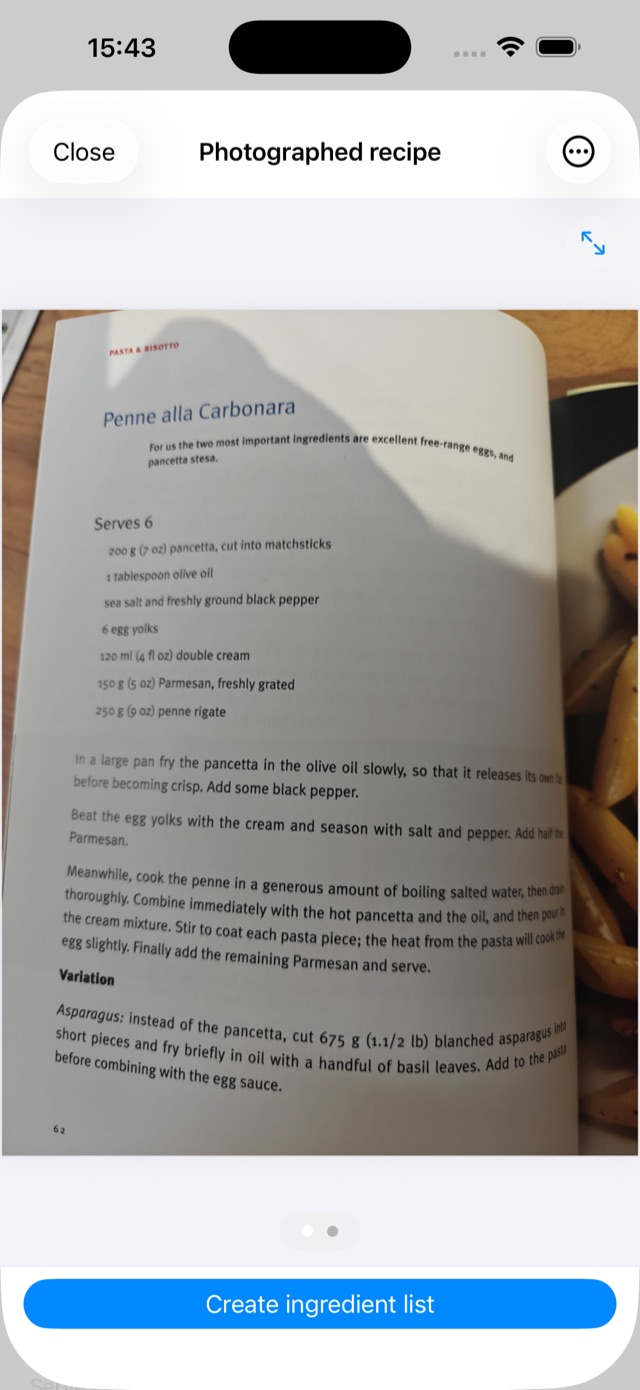
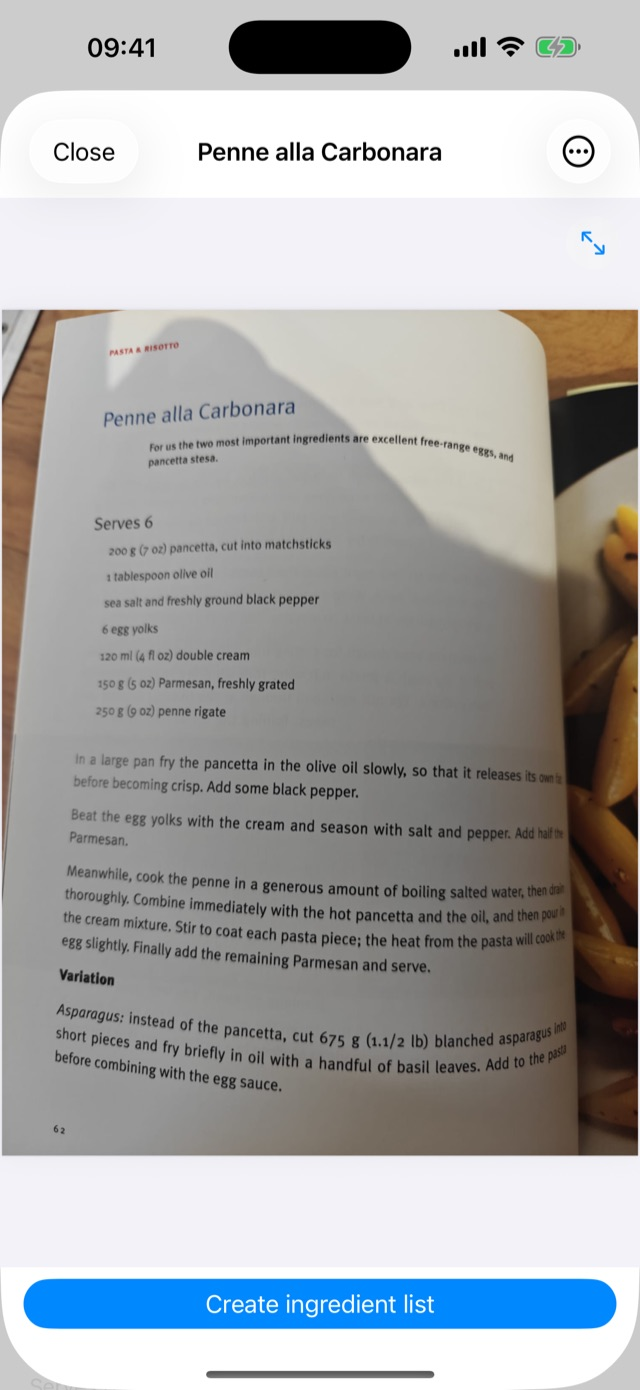
Site: regenerated step screenshots and top-aligned columns
New fixture screenshots: the photographed recipe is now titled Penne
alla Carbonara (matching its page), the todos shot has no personal
category tabs, and the status bar reads 9:41. The How-it-works columns
use subgrid rows so the three screenshots top-align however long each
step's text runs. Stylesheet bumped to hobpad.v4.css.

diff --git a/site/assets/hobpad.v4.css b/site/assets/hobpad.v4.css
@@ -1,0 +1,119 @@
+/* HobPad site stylesheet, v4. Versioned filename: never edit in place, bump to v5
+   (non-HTML ships with max-age 86400 — see deploy/deploy.sh).
+   v2: .band uses padding-block — 'padding: 56px 0' was declared after .wrap and
+   zeroed its 24px side gutter on every .wrap.band section (full-bleed text on phones).
+   v3: app screenshots in the How-it-works steps (.steps__shot; grid on wide viewports).
+   v4: step screenshots top-align across columns (subgrid rows; text and image are
+   separate row-track children of each li).
+   Discipline follows the Roadbook rules from routehold.com: three typefaces, three
+   radii, no gradients, no pills, accent used sparingly, prose never centred. */
+
+:root {
+  --paper: #F7F3EA;
+  --ink: #22201B;
+  --muted: #6E6759;
+  --hairline: #D9D2C2;
+  --accent: #4F6B2E;      /* herb green; at most twice per viewport */
+  --warn: #A8322A;
+  --good: #2E6B4F;
+  --display: "Libre Franklin", sans-serif;
+  --serif: "Source Serif 4", serif;
+  --mono: "IBM Plex Mono", monospace;
+  --r-flat: 0;
+  --r-control: 2px;
+  --r-panel: 3px;
+}
+
+* { box-sizing: border-box; margin: 0; padding: 0; }
+html { -webkit-text-size-adjust: 100%; }
+body {
+  background: var(--paper);
+  color: var(--ink);
+  font-family: var(--serif);
+  font-size: 17px;
+  line-height: 1.65;
+}
+
+.wrap { max-width: 880px; margin: 0 auto; padding: 0 24px; }
+.band { padding-block: 56px; }
+.band + .band { border-top: 1px solid var(--hairline); }
+
+h1, h2, h3 { font-family: var(--display); font-weight: 800; line-height: 1.15; }
+h1 { font-size: clamp(34px, 6vw, 54px); letter-spacing: -0.015em; }
+h2 { font-size: 26px; margin-bottom: 14px; }
+h3 { font-size: 19px; margin: 22px 0 6px; }
+
+.label {
+  font-family: var(--mono);
+  font-size: 12px;
+  letter-spacing: 0.14em;
+  text-transform: uppercase;
+  color: var(--muted);
+}
+
+.lead { font-size: 20px; }
+.small { font-size: 14.5px; }
+.muted { color: var(--muted); }
+.prose p + p { margin-top: 14px; }
+.prose ul { margin: 12px 0 12px 22px; }
+.prose li + li { margin-top: 6px; }
+a { color: var(--ink); text-decoration-color: var(--accent); text-underline-offset: 3px; }
+a:hover { color: var(--accent); }
+
+.nav { display: flex; align-items: baseline; justify-content: space-between; padding: 22px 0; }
+.nav__brand { font-family: var(--display); font-weight: 800; font-size: 20px; text-decoration: none; }
+.nav__links { display: flex; gap: 22px; font-family: var(--mono); font-size: 13.5px; }
+.nav__links a { text-decoration: none; }
+
+.hero__art {
+  width: 116px; height: 116px; border-radius: var(--r-panel);
+  border: 1px solid var(--hairline); display: block; margin-bottom: 26px;
+}
+.hero h1 { max-width: 15ch; }
+.hero .lead { max-width: 52ch; margin-top: 18px; }
+
+.steps { list-style: none; margin-top: 8px; }
+.steps li { padding: 16px 0; border-bottom: 1px solid var(--hairline); }
+.steps__text { display: flex; gap: 16px; }
+.steps li:last-child { border-bottom: 0; }
+.steps .label { padding-top: 5px; white-space: nowrap; }
+.steps__shot {
+  display: block; width: 100%; max-width: 280px; height: auto; margin-top: 16px;
+  border: 1px solid var(--hairline); border-radius: var(--r-panel);
+}
+@media (min-width: 720px) {
+  .steps { display: grid; grid-template-columns: repeat(3, 1fr); gap: 0 32px; }
+  /* Subgrid puts every text block on row 1 and every screenshot on row 2, so the
+     images top-align however long each step's text runs. */
+  .steps li {
+    border-bottom: 0; display: grid; grid-template-rows: subgrid; grid-row: span 2;
+    align-content: start;
+  }
+}
+
+.btn {
+  display: inline-block; font-family: var(--mono); font-size: 14px;
+  padding: 12px 20px; border: 1px solid var(--ink); border-radius: var(--r-control);
+  background: var(--ink); color: var(--paper); text-decoration: none; cursor: pointer;
+}
+.btn:hover { background: var(--accent); border-color: var(--accent); color: var(--paper); }
+.btn--ghost { background: transparent; color: var(--ink); }
+.btn--ghost:hover { background: transparent; color: var(--accent); border-color: var(--accent); }
+
+form .field { margin-top: 16px; }
+form label { display: block; font-family: var(--mono); font-size: 13px; margin-bottom: 6px; }
+input[type="email"], input[type="text"], textarea {
+  width: 100%; font-family: var(--serif); font-size: 16px; color: var(--ink);
+  background: #FFFDF7; border: 1px solid var(--hairline); border-radius: var(--r-control);
+  padding: 10px 12px;
+}
+input:focus, textarea:focus { outline: 2px solid var(--accent); outline-offset: 0; border-color: var(--accent); }
+textarea { min-height: 140px; resize: vertical; }
+.hp { position: absolute; left: -9999px; width: 1px; height: 1px; overflow: hidden; }
+
+.foot { border-top: 1px solid var(--hairline); margin-top: 26px; }
+.foot__row {
+  display: flex; flex-wrap: wrap; gap: 18px; justify-content: space-between;
+  padding: 26px 0 40px; font-family: var(--mono); font-size: 13px; color: var(--muted);
+}
+.foot__row a { text-decoration: none; }

diff --git a/site/index.html b/site/index.html
@@ -10,7 +10,7 @@
 <link rel="preconnect" href="https://fonts.googleapis.com">
 <link rel="preconnect" href="https://fonts.gstatic.com" crossorigin>
 <link href="https://fonts.googleapis.com/css2?family=IBM+Plex+Mono:wght@400;500&family=Libre+Franklin:wght@800&family=Source+Serif+4:opsz,wght@8..60,400;8..60,600&display=swap" rel="stylesheet">
-<link rel="stylesheet" href="/assets/hobpad.v3.css">
+<link rel="stylesheet" href="/assets/hobpad.v4.css">
 </head>
 <body>
 <div class="wrap">
@@ -33,12 +33,12 @@
 <div class="wrap band">
   <p class="label">How it works</p>
   <ol class="steps prose">
-    <li><span class="label">01</span><span>Photograph a recipe from a book or magazine, or import a PDF. HobPad stores it and gives it a sensible name.
-      <img class="steps__shot" src="/assets/step-1.jpg" alt="A photographed recipe stored in HobPad, with a Create ingredient list button underneath" width="640" height="1390" loading="lazy"></span></li>
-    <li><span class="label">02</span><span>Tap Create ingredient list. HobPad reads every page, merges repeated ingredients, and can scale the quantities to how many you are cooking for.
-      <img class="steps__shot" src="/assets/step-2.jpg" alt="The conversion dialog, with a quantities stepper and the credit cost shown before converting" width="640" height="1390" loading="lazy"></span></li>
-    <li><span class="label">03</span><span>The list arrives in your todos, ready to tick off at the shop.
-      <img class="steps__shot" src="/assets/step-3.jpg" alt="The finished ingredient shopping list in the todos tab, each item with a checkbox" width="640" height="1390" loading="lazy"></span></li>
+    <li><div class="steps__text"><span class="label">01</span><span>Photograph a recipe from a book or magazine, or import a PDF. HobPad stores it and gives it a sensible name.</span></div>
+      <img class="steps__shot" src="/assets/step-1.jpg" alt="A photographed recipe stored in HobPad, with a Create ingredient list button underneath" width="640" height="1390" loading="lazy"></li>
+    <li><div class="steps__text"><span class="label">02</span><span>Tap Create ingredient list. HobPad reads every page, merges repeated ingredients, and can scale the quantities to how many you are cooking for.</span></div>
+      <img class="steps__shot" src="/assets/step-2.jpg" alt="The conversion dialog, with a quantities stepper and the credit cost shown before converting" width="640" height="1390" loading="lazy"></li>
+    <li><div class="steps__text"><span class="label">03</span><span>The list arrives in your todos, ready to tick off at the shop.</span></div>
+      <img class="steps__shot" src="/assets/step-3.jpg" alt="The finished ingredient shopping list in the todos tab, each item with a checkbox" width="640" height="1390" loading="lazy"></li>
   </ol>
 </div>
 

diff --git a/site/privacy.html b/site/privacy.html
@@ -9,7 +9,7 @@
 <link rel="preconnect" href="https://fonts.googleapis.com">
 <link rel="preconnect" href="https://fonts.gstatic.com" crossorigin>
 <link href="https://fonts.googleapis.com/css2?family=IBM+Plex+Mono:wght@400;500&family=Libre+Franklin:wght@800&family=Source+Serif+4:opsz,wght@8..60,400;8..60,600&display=swap" rel="stylesheet">
-<link rel="stylesheet" href="/assets/hobpad.v3.css">
+<link rel="stylesheet" href="/assets/hobpad.v4.css">
 </head>
 <body>
 <div class="wrap">

diff --git a/site/support.html b/site/support.html
@@ -9,7 +9,7 @@
 <link rel="preconnect" href="https://fonts.googleapis.com">
 <link rel="preconnect" href="https://fonts.gstatic.com" crossorigin>
 <link href="https://fonts.googleapis.com/css2?family=IBM+Plex+Mono:wght@400;500&family=Libre+Franklin:wght@800&family=Source+Serif+4:opsz,wght@8..60,400;8..60,600&display=swap" rel="stylesheet">
-<link rel="stylesheet" href="/assets/hobpad.v3.css">
+<link rel="stylesheet" href="/assets/hobpad.v4.css">
 </head>
 <body>
 <div class="wrap">
